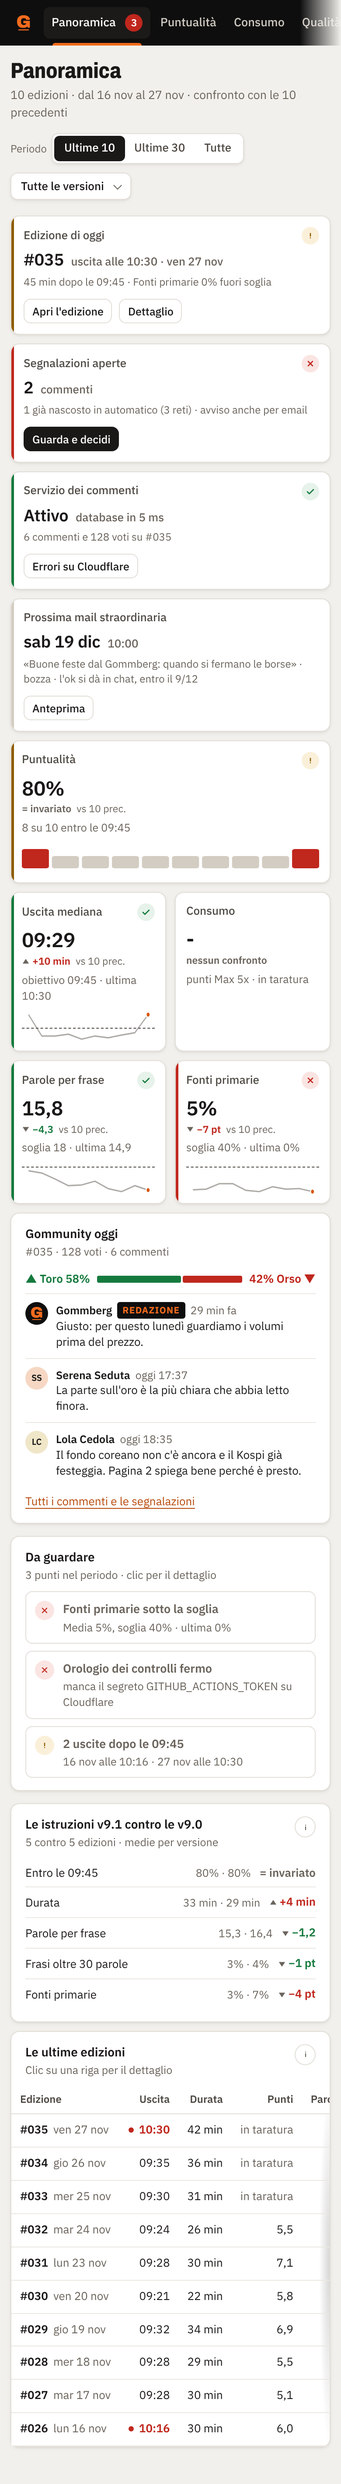
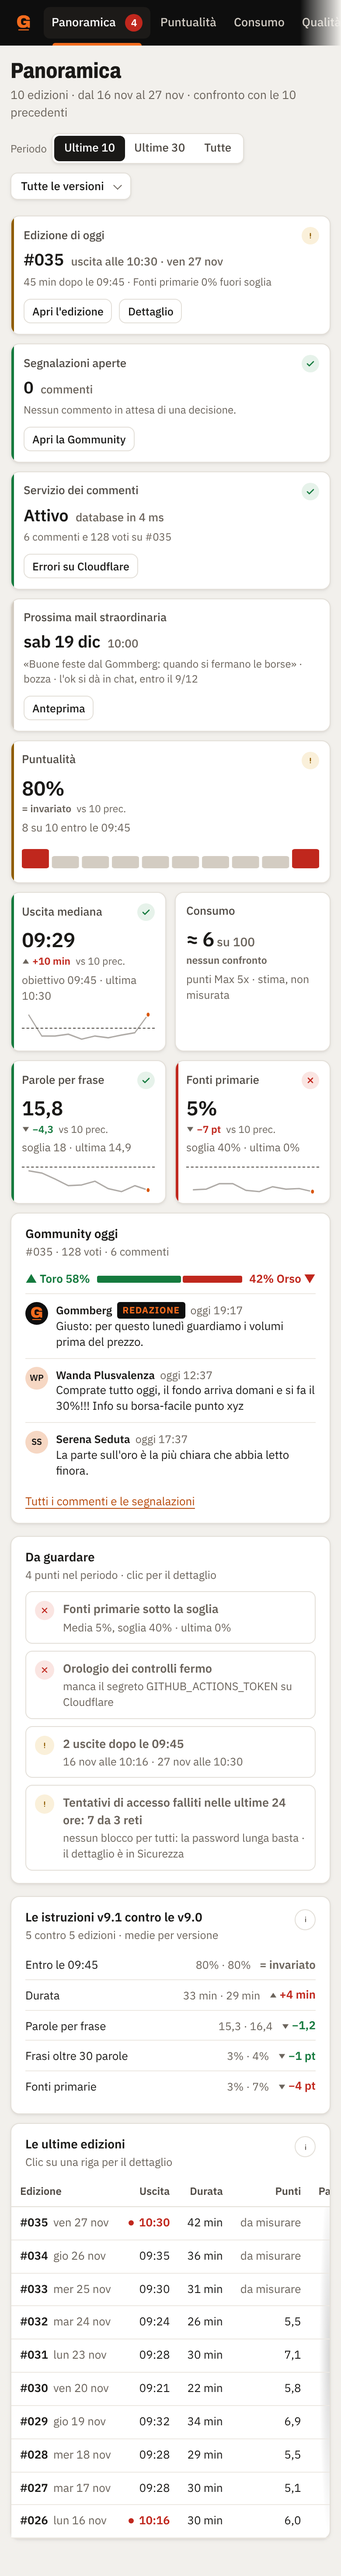
G-51: dal collaudo indipendente - frasi vere sul repository pubblico, recupero, limiti di Cloudflare, anteprime rifatte
- SERIO 3: LETTORI.md e la scheda Sicurezza dicono il vero: sul sito il pannello non si apre senza accesso, ma finché il
  repository GitHub è pubblico i suoi file si leggono lì; per questo G-51 va in linea dopo G-12
- LETTORI.md riscritto per le regole nuove: tentativi senza blocco globale, rete IPv4 o /64, cambio password in due passi,
  durate assolute, CSRF non salvato, recupero con un valore DIVERSO del segreto, accessi a 30 giorni, area solo su
  gommberg.com, misura della CPU dopo il primo deploy (wrangler tail, cpuTime)
- dichiarati, senza costruire: la regola di limitazione delle richieste su /api/* e /redazione (passi per Paolo sul
  pannello di Cloudflare) e le anteprime vecchie su workers.dev (come si verifica e come si tolgono)
- anteprime della costruita rifatte con il Worker vero in locale (Sicurezza con gli errori raggruppati, Panoramica con
  l'avviso dei tentativi, Gommunity con un testo lungo che va a capo)

Claude-Session: https://claude.ai/code/session_01Ri8ehwY1ptc3ZWeANtxGV5

diff --git a/pannello/index.html b/pannello/index.html
@@ -1112,7 +1112,7 @@ function gLettore(){var g=RED.g,c=g.dati&&g.dati.commenti.filter(function(x){ret
     +'<p class="hint" style="margin-top:10px">I suoi nomi (al massimo tre)</p><div class="nomi">'+(L.nomi.length?L.nomi.map(function(n){return "<span>"+esc(n.nome)+"</span>"}).join(""):"<span>nessuno: già liberati</span>")+"</div>"
     +'<div class="acts" style="margin-top:12px">'+(bl?'<button class="btn sm" type="button" data-ga="sblocca" data-id="'+c.id+'">Sblocca il lettore</button>':'<button class="btn sm ko" type="button" data-ga="blocca" data-id="'+c.id+'">Blocca il lettore</button>')
     +(L.nomi.length?'<button class="btn sm" type="button" data-ga="libera-tutti" data-id="'+c.id+'">Libera i nomi</button>':"")+"</div>"
-    +'<p class="hint">'+(bl?"Bloccato: non scrive, non vota, non segnala. ":"")+"Bloccare ferma il browser per sempre e la rete per 30 giorni: i commenti già scritti restano finché non li togli.</p>";
+    +'<p class="hint">'+(bl?"Bloccato: non scrive, non vota, non segnala. ":"")+"Bloccare ferma il browser per sempre e la rete fino a 30 giorni dal commento: i commenti già scritti restano finché non li togli.</p>";
   return card("Chi l'ha scritto","Il commento selezionato",h,{})}
 function gDiscussioni(){var D2=RED.disc;if(!D2)return "";
   var h='<ul class="disc">'+D2.edizioni.slice(0,8).map(function(x){return '<li><b style="font-weight:600">'+num(x.ed)+(ED[x.ed]?" · "+esc(data(ED[x.ed].data)):"")+'</b><button type="button" class="sw'+(x.chiusa?"":" on")+'" data-ga="'+(x.chiusa?"riapri":"chiudi")+'" data-n="'+x.ed+'" aria-pressed="'+!x.chiusa+'" style="background:none;border:0;cursor:pointer;padding:0"><i></i>'+(x.chiusa?"Chiusa":"Aperta")+"</button><em>"+x.commenti+" "+plur(x.commenti,"commento","commenti")+(x.ed==D2.ultima?" · edizione di oggi":"")+(x.chiusa?" · chiusa il "+new Date(x.chiusa).getDate()+"/"+(new Date(x.chiusa).getMonth()+1):"")+"</em></li>"}).join("")+"</ul>";
@@ -1148,7 +1148,7 @@ function sicurezza(){var S2=RED.sic;
     .sort(function(a,b){return a.t<b.t?1:a.t>b.t?-1:0});
   var tr=righe.map(function(x){return x.h}).join("");
   var acc=card("Ultimi accessi","Gli ultimi 30 giorni, anche i tentativi sbagliati",tr?'<div class="tw"><table class="accessi"><thead><tr><th>Quando</th><th>Dispositivo</th><th class="hide-m">Da dove</th><th>Esito</th></tr></thead><tbody>'+tr+"</tbody></table></div>":'<div class="vuoto">Nessun accesso negli ultimi 30 giorni.</div>',{flush:true});
-  var g=S2.regole,prot=card("Protezioni attive","Si leggono, non si toccano",'<ul class="reg">'+["Dopo "+g.errori_liberi+" errori da una rete, un'attesa che raddoppia a ogni errore (fino a "+g.attesa_max_min+" minuti); un tentativo alla volta","Nessun blocco per tutti: con una password di almeno 16 caratteri non serve, e nessuno ti può chiudere fuori","Cookie di sessione che le pagine non possono leggere e che gli altri siti non mandano","Pannello, dati e azioni controllati sul server: senza accesso non si aprono","Password mai nel repository né nelle pagine: "+(S2.password.origine=="area"?"in D1 solo la sua impronta (PBKDF2, "+it(g.iterazioni,0)+" passaggi), cambiata "+quando(S2.password.cambiata):"per ora è il segreto REDAZIONE_PASSWORD su Cloudflare")].map(function(t){return "<li>"+stato("ok")+"<span>"+t+"</span></li>"}).join("")+"</ul>",{});
+  var g=S2.regole,prot=card("Protezioni attive","Si leggono, non si toccano",'<ul class="reg">'+["Dopo "+g.errori_liberi+" errori da una rete, un'attesa che raddoppia a ogni errore (fino a "+g.attesa_max_min+" minuti); un tentativo alla volta","Nessun blocco per tutti: con una password di almeno 16 caratteri non serve, e nessuno ti può chiudere fuori","Cookie di sessione che le pagine non possono leggere e che gli altri siti non mandano","Pannello, dati e azioni controllati sul server: sul sito, senza accesso, non si aprono (finché il repository GitHub è pubblico i file del pannello si leggono lì: G-12)","Password mai nel repository né nelle pagine: "+(S2.password.origine=="area"?"in D1 solo la sua impronta (PBKDF2, "+it(g.iterazioni,0)+" passaggi), cambiata "+quando(S2.password.cambiata):"per ora è il segreto REDAZIONE_PASSWORD su Cloudflare")].map(function(t){return "<li>"+stato("ok")+"<span>"+t+"</span></li>"}).join("")+"</ul>",{});
   var ses=S2.sessioni.map(function(s){return '<span><span class="dev">'+(IDV[s.dispositivo.tipo]||IDV.altro)+"<span>"+esc(s.dispositivo.testo)+"<small>"+(s.questa?"questo dispositivo · ":"")+"usato "+quando(s.usata)+" · "+(s.resta?"resta collegato fino al "+new Date(s.scade).getDate()+"/"+(new Date(s.scade).getMonth()+1)+" senza uso":"fino alla chiusura del browser")+'</small></span></span></span><span><button class="btn sm" type="button" data-sesci="'+s.id+'">Esci</button></span>'}).join("");
   var dev=card("Dispositivi collegati",S2.sessioni.length+" "+plur(S2.sessioni.length,"sessione aperta","sessioni aperte"),'<div class="kv2">'+ses+'</div><div class="acts" style="margin-top:12px"><button class="btn ko" type="button" data-esci-tutti>Esci da tutti i dispositivi</button></div><p class="hint">Chiude ogni sessione sul server, anche questa: poi la password serve di nuovo ovunque. Senza uso, si esce da soli dopo '+g.resta_giorni+" giorni (o dopo "+g.breve_ore+" ore senza «Resta collegato»).</p>",{});
   var pw=card("Cambia la password","Dopo il cambio si esce da tutti gli altri dispositivi",'<form id="fpw" autocomplete="on"><input type="text" name="username" autocomplete="username" value="" hidden>'

diff --git a/redazione/sito/LETTORI.md b/redazione/sito/LETTORI.md
@@ -57,7 +57,7 @@ Il flusso gira solo dal ramo principale. **Alla prima messa in linea va provato 
 
 ## Togliere un commento: la scheda Gommunity
 
-Per l'ordinanza 22999/2026 della Cassazione il gestore risponde se, saputo di un commento diffamatorio, non lo rimuove in fretta: quando arriva l'avviso di una segnalazione, o un'email a redazione@gommberg.com, si guarda e se serve si toglie subito. Dal 5/12 (G-51) si fa dalla scheda Gommunity dell'area riservata (gommberg.com/redazione/, vedi sotto): l'avviso di GitHub porta dritto al commento. Lì: **Togli** (nascosto = 2), **Rimetti** (torna visibile e azzera le segnalazioni, se no alla prossima si nasconderebbe di nuovo), **Azzera** (le segnalazioni di un commento ancora visibile), **Fissa in alto**, **Blocca il lettore** (il codice del browser per sempre, la rete per 30 giorni: non scrive, non vota, non segnala), **Libera il nome**, **Chiudi o riapri la discussione** di un'edizione (i lettori leggono ma non scrivono; la redazione sì). Togli e Rimetti si annullano per 10 secondi. Da collegato, sul sito c'è anche "Togli" sotto ogni commento.
+Per l'ordinanza 22999/2026 della Cassazione il gestore risponde se, saputo di un commento diffamatorio, non lo rimuove in fretta: quando arriva l'avviso di una segnalazione, o un'email a redazione@gommberg.com, si guarda e se serve si toglie subito. Dal 5/12 (G-51) si fa dalla scheda Gommunity dell'area riservata (gommberg.com/redazione/, vedi sotto): l'avviso di GitHub porta dritto al commento. Lì: **Togli** (nascosto = 2), **Rimetti** (torna visibile e azzera le segnalazioni, se no alla prossima si nasconderebbe di nuovo), **Azzera** (le segnalazioni di un commento ancora visibile), **Fissa in alto**, **Blocca il lettore** (il codice del browser per sempre, la rete fino a 30 giorni dal commento: non scrive, non vota, non segnala), **Libera il nome**, **Chiudi o riapri la discussione** di un'edizione (i lettori leggono ma non scrivono; la redazione sì). Togli e Rimetti si annullano per 10 secondi. Da collegato, sul sito c'è anche "Togli" sotto ogni commento.
 
 Solo se l'area non risponde, dalla console di D1 (Cloudflare, Storage e database, D1, `gommberg-lettori`, Console): `UPDATE commenti SET nascosto = 2 WHERE id = <numero>;` per toglierlo; `DELETE FROM segnalazioni WHERE commento = <numero>;` e `UPDATE commenti SET nascosto = 0, segnalazioni = 0 WHERE id = <numero>;` per rimetterlo.
 
@@ -65,19 +65,23 @@ I commenti delle anteprime hanno `sito = 'prova'` e non compaiono mai su gommber
 
 ## L'area riservata della redazione (G-51)
 
-Un solo posto per Paolo: **gommberg.com/redazione/**, non collegato da nessuna pagina. Il codice è `redazione.js` (nel Worker, con `lettori.js`); le pagine sono `pannello/accesso.html` (l'accesso) e `pannello/index.html` (l'area: il pannello di controllo con la striscia di oggi in Panoramica, più le schede Gommunity e Sicurezza). La cartella `pannello/` non è mai tra i file pubblici: `costruisci.py` la mette in `_privato/pannello.js`, che entra nel codice del Worker, e il Worker la serve solo dopo l'accesso. I vecchi indirizzi `/pannello/` e `/consumi/` danno 404.
+Un solo posto per Paolo: **gommberg.com/redazione/**, non collegato da nessuna pagina. Il codice è `redazione.js` (nel Worker, con `lettori.js`; il punto d'ingresso è `servizio.js`); le pagine sono `pannello/accesso.html` (l'accesso) e `pannello/index.html` (l'area: il pannello di controllo con la striscia di oggi in Panoramica, più le schede Gommunity e Sicurezza). La cartella `pannello/` non è tra i file del sito: `costruisci.py` la mette in `_privato/pannello.js`, che entra nel codice del Worker, e il Worker la serve solo dopo l'accesso. **Attenzione: finché il repository GitHub è pubblico, i file di `pannello/` (registro, invii, minuti) si leggono comunque su GitHub**: per questo G-51 va in linea solo dopo G-12 (repository privato). Sul sito, senza accesso, un file del pannello risponde come un file che non esiste (404), e i vecchi indirizzi `/pannello/` e `/consumi/` danno 404. Il resto di `/redazione/` passa ai file statici: lì ci sono anche i file pubblici che il sito legge (`redazione/glossario.json`, `glossario_sito.json`, `meccanismi.json`, `scommessa/pagella.json`); il collaudo controlla che rispondano passando dal Worker (`prova_instradamento.mjs`). L'area risponde solo su gommberg.com: sulle anteprime di workers.dev non c'è (useremmo lo stesso database: "Esci da tutti" o il cambio password varrebbero per il sito vero).
 
 **Le credenziali** le sceglie Paolo e le mette lui, una volta, tra i segreti del Worker: Cloudflare, Workers e Pages, `gommberg`, Impostazioni, Variabili e segreti, Aggiungi, tipo **Segreto**: `REDAZIONE_UTENTE` (il nome utente) e `REDAZIONE_PASSWORD` (almeno 16 caratteri: meglio una frase di quattro o cinque parole). Nessun deploy li cancella e nessuno li rilegge. Senza, la schermata di accesso dice "non ancora configurato". Claude non li vede mai.
 
-**Il cambio password** dalla scheda Sicurezza salva in D1 solo l'impronta della nuova (PBKDF2-SHA256, 50.000 passaggi, sale casuale) e chiude le altre sessioni. **Chi vince**: l'ultima cambiata. L'impronta salvata vale finché il segreto `REDAZIONE_PASSWORD` resta quello di quando è stata salvata; se Paolo cambia il segreto su Cloudflare, vince il segreto, l'impronta si cancella e tutte le sessioni si chiudono. **Password dimenticata**: si cambia il segreto `REDAZIONE_PASSWORD` su Cloudflare (anche dal telefono) e si entra con quello.
+**Il cambio password** dalla scheda Sicurezza salva in D1 solo l'impronta della nuova (PBKDF2-SHA256, 50.000 passaggi, sale casuale) e chiude le altre sessioni. Si fa in due richieste, perché ognuna faccia al massimo una derivazione (il piano gratuito dà 10 ms di CPU per richiesta): la prima controlla la password attuale e la nuova (lunghezza, non soli spazi né un solo carattere ripetuto, diversa dall'attuale) e dà una prova firmata valida 5 minuti; la seconda, con la prova, scrive l'impronta. Impronta, sessioni chiuse e riga degli accessi stanno nello stesso batch di D1: o tutto o niente. **Chi vince**: l'ultima cambiata. L'impronta salvata vale finché il segreto `REDAZIONE_PASSWORD` resta quello di quando è stata salvata; se il segreto cambia, vince il segreto, l'impronta si cancella e con lei tutte le sessioni. **Password dimenticata**: si mette nel segreto `REDAZIONE_PASSWORD` su Cloudflare (anche dal telefono) **un valore diverso da quello di prima** e si entra con quello. Togliere il segreto e rimetterlo uguale non basta: per il codice non è cambiato, e vince ancora la password dell'area.
 
-**Sessioni**: cookie `__Host-gtd_sessione` (HttpOnly, Secure, SameSite=Strict), in D1 solo la sua impronta. "Resta collegato" (acceso di base, da spegnere sui PC condivisi): 90 giorni senza uso; senza, fino alla chiusura del browser e al massimo 12 ore senza uso. Esci chiude la sessione sul server; "Esci da tutti i dispositivi" e l'Esci di ogni dispositivo stanno nella scheda Sicurezza, con gli ultimi accessi (anche quelli sbagliati) degli ultimi 30 giorni. Il cookie `gtd_red=1`, leggibile dalle pagine e senza segreti, serve solo a dire alle pagine del sito che vale la pena chiedere la sessione: così la barra Redazione (`assets/redazione.js`, in ogni pagina) e la firma della redazione nella Gommunity non costano nulla ai lettori.
+**Sessioni**: cookie `__Host-gtd_sessione` (HttpOnly, Secure, SameSite=Strict); in D1 solo la sua impronta, e il gettone anti-CSRF non è salvato: si ricava dal gettone di sessione. "Resta collegato" (acceso di base, da spegnere sui PC condivisi): 90 giorni senza uso e comunque al massimo 90 giorni dall'accesso; senza, fino alla chiusura del browser e al massimo 12 ore dall'accesso. Esci chiude la sessione sul server; "Esci da tutti i dispositivi" e l'Esci di ogni dispositivo stanno nella scheda Sicurezza. Il cookie `gtd_red=1`, leggibile dalle pagine e senza segreti, dice solo alle pagine del sito che vale la pena chiedere la sessione: così la barra Redazione (`assets/redazione.js`, in ogni pagina) e la firma della redazione nella Gommunity non costano nulla ai lettori; con lui il contatore delle visite non parte (le visite di Paolo non si contano). Dove vale la sessione, nessuna pagina carica codice da altri siti: pdf.js sta in `assets/pdfjs/`.
 
-**Tentativi**: per rete, 5 errori in 24 ore liberi, poi un'attesa che raddoppia a ogni errore (1, 2, 4... minuti, al massimo 60); per tutto il sito, oltre 50 errori in 15 minuti l'accesso si sospende finché non scendono (vale anche per Paolo: è il prezzo contro un attacco da molte reti). Nome utente sbagliato e password sbagliata danno la stessa risposta. Ogni azione che cambia qualcosa vuole lo stesso sito d'origine e il gettone anti-CSRF della sessione; le pagine dell'area hanno una CSP con nonce, niente cache e niente cornici.
+**Tentativi**: per rete (l'IPv4 intero, o i primi 64 bit dell'IPv6: `chiaveRete` in `lettori.js`, la stessa dei limiti dei commenti e di "Blocca il lettore"), 5 errori in 24 ore liberi, poi un'attesa che raddoppia a ogni errore (1, 2, 4... minuti, al massimo 60); ogni tentativo si prenota prima di provare la password, così cento richieste insieme dalla stessa rete non ne provano più di una alla volta. **Nessun blocco per tutto il sito**: chiunque lo farebbe scattare da molte reti chiudendo fuori Paolo, e con una password di almeno 16 caratteri non serve. Al suo posto, in Panoramica (Da guardare) e in Sicurezza: "tentativi di accesso falliti nelle ultime 24 ore: N da M reti"; in "Ultimi accessi" gli errori stanno una riga per rete con il conto, e gli accessi riusciti restano sempre visibili. Gli accessi si cancellano dopo 30 giorni (privacy.html). Le impronte di rete già in D1 calcolate su indirizzi IPv6 interi, prima di questa regola, non coincidono più: i limiti guardano al massimo 24 ore indietro e i blocchi di rete scadono da soli entro 30 giorni.
+
+**Il limite delle richieste (scelta di Paolo, da fare sul pannello di Cloudflare)**: la quota gratuita dei Workers è di 100.000 richieste al giorno (si azzera a mezzanotte UTC) e si esaurisce con 1,2 richieste al secondo: chi la consumasse di proposito fermerebbe area e Gommunity fino a mezzanotte UTC (l'edizione esce comunque: i file statici non passano dal Worker). Rimedio gratuito: una regola di limitazione. Cloudflare, gommberg.com, Sicurezza, WAF, Regole di limitazione della frequenza, Crea regola: nome "Worker", espressione `(starts_with(http.request.uri.path, "/api/")) or (starts_with(http.request.uri.path, "/redazione"))`, caratteristica IP, 60 richieste in 10 secondi (il piano gratuito ammette una regola e il periodo di 10 secondi), azione Blocca per 10 secondi. Un lettore vero non arriva a 6 richieste al secondo; Paolo nemmeno.
+
+**Le anteprime vecchie su workers.dev**: le versioni caricate prima di G-51 servono ancora `/pannello/` come file statico, finché restano raggiungibili. Verifica: per ogni ramo di anteprima già pubblicato (`prova`, `anteprima-*`), aprire `https://<ramo>-gommberg.<sottodominio>.workers.dev/pannello/registro.json`: se risponde con i dati, l'anteprima è vecchia. Come si tolgono: ripubblicare quel ramo dopo il rilascio (l'anteprima nuova sostituisce la vecchia con lo stesso nome), oppure da Cloudflare, Workers, gommberg, Impostazioni, Domini e route, spegnere "URL di anteprima" (si riaccendono quando servono).
 
 **La firma "Gommberg"**: i commenti della redazione hanno `redazione = 1` (autore `redazione`, mai un'impronta di lettore) ed escono con il logo e il badge Redazione; il nome è riservato (`RISERVATI`), quindi nessun lettore può firmarsi così, e il badge lo decide solo il servizio. I commenti della redazione si modificano (con "modificato"), non si nascondono con le segnalazioni, e si scrivono anche a discussione chiusa; quelli dei lettori si tolgono, mai si modificano.
 
-**Costi sul piano gratuito**: la derivazione della password (circa 6 ms di CPU, misurati) si fa solo quando c'è un'impronta salvata, una volta per accesso; il cambio password ne fa due (raro: Cloudflare tollera i superamenti occasionali dei 10 ms). Ogni pagina dell'area legge la sessione in D1 e la rinnova al massimo una volta l'ora.
+**CPU**: una derivazione PBKDF2 (circa 6,6 ms misurati in locale) solo per un accesso con l'impronta salvata e per ciascuno dei due passi del cambio password; mai due nella stessa richiesta. Dopo il primo deploy la chat del rilascio misura il tempo vero: `npx wrangler tail gommberg --format json`, poi un accesso dopo un cambio password e un cambio password, e si legge `cpuTime` di quelle richieste (deve restare sotto i 10 ms; se no, si abbassano i passaggi in `AREA.iterazioni`: le impronte salvate portano il loro numero di passaggi e restano valide).
 
 **Primo accesso** (Paolo, dopo il rilascio): 1) i due segreti su Cloudflare; 2) gommberg.com/redazione/ dal PC, "Resta collegato" acceso, e il preferito; 3) dal telefono, stesso indirizzo, poi Condividi, Aggiungi alla schermata Home (l'icona si chiama "Redazione"); 4) Esci e rientro per provare.
 

diff --git a/redazione/ARCHITETTURA.md b/redazione/ARCHITETTURA.md
@@ -58,7 +58,7 @@ Il passaggio in due passi, sicuro in qualunque ordine. **Passo 1** (in linea con
 | Sito | pagine fisse in radice (`index.html`, `archivio.html`...), `assets/`, `pagine.py`, `sito/costruisci.py`, `sito/statico.py`, `robots.txt` | Pagine scritte a mano che si riempiono via JavaScript dai file di dati; pagine per edizione generate. `statico.py` (lo chiama `costruisci.py`, scrive solo nel sito pubblicato, mai nel repository) aggiunge per i motori di ricerca le pagine `impara/<parola>.html`, il contenuto di riserva di home, Impara e Archivio e le pagine di Impara nella sitemap (G-35) |
 | Newsletter | `newsletter.py` (compone anche testata e fascia dei mercati), `newsletter_cornice.html` e `newsletter_modello.html` (copiati a mano in Kit: "Gommberg cornice" per le edizioni, "Gommberg" predefinito; se la cornice manca l'invio fallisce e il controllo del mattino lo segnala, nessun ripiego su un altro modello; se Kit non risponde all'elenco dei modelli, 4 tentativi a 15 secondi e poi errore "Kit non risponde"; la creazione dell'invio non si ritenta mai) | L'email del mattino dalla scheda `e/NNN.json` |
 | Pannello | `pannello.py`, `misure.py`, `gancio_token.py`, `pannello/` | Una riga per edizione: orari, lavoro, qualità, consumo; pagina Invii per le mail straordinarie. Dal 5/12 (G-51) è la prima scheda dell'area riservata: mai tra i file pubblici, vedi sotto |
-| Area riservata (G-51) | `sito/redazione.js` (accesso, sessioni, tentativi, pannello e moderazione nel Worker), `sito/servizio.js` (punto d'ingresso del Worker: esporta solo il gestore), `pannello/index.html` (l'area: Panoramica con la striscia di oggi, pagine del pannello, Gommunity, Sicurezza), `pannello/accesso.html` (la schermata di accesso), `assets/redazione.js` (la barra Redazione sul sito, solo per Paolo collegato), `_privato/pannello.js` (scritto da `costruisci.py` a ogni pubblicazione: i file di `pannello/` dentro il codice del Worker); segreti del Worker `REDAZIONE_UTENTE` e `REDAZIONE_PASSWORD` (li mette Paolo su Cloudflare); regole e procedura in `sito/LETTORI.md` | `gommberg.com/redazione/`: entra solo Paolo; pannello e dati solo dopo l'accesso; firma "Gommberg" con il badge Redazione; toglie, rimette, fissa, blocca, libera nomi, chiude discussioni |
+| Area riservata (G-51) | `sito/redazione.js` (accesso, sessioni, tentativi, pannello e moderazione nel Worker), `sito/servizio.js` (punto d'ingresso del Worker: esporta solo il gestore), `pannello/index.html` (l'area: Panoramica con la striscia di oggi, pagine del pannello, Gommunity, Sicurezza), `pannello/accesso.html` (la schermata di accesso), `assets/redazione.js` (la barra Redazione sul sito, solo per Paolo collegato), `_privato/pannello.js` (scritto da `costruisci.py` a ogni pubblicazione: i file di `pannello/` dentro il codice del Worker), `sito/prova_instradamento.mjs` (i file pubblici sotto `/redazione/` rispondono passando dal Worker), `sito/prova_area_html.mjs` (nessun valore del database senza escape nell'area), `assets/pdfjs/` (pdf.js copiato: niente codice di altri siti dove vale la sessione); segreti del Worker `REDAZIONE_UTENTE` e `REDAZIONE_PASSWORD` (li mette Paolo su Cloudflare); regole e procedura in `sito/LETTORI.md` | `gommberg.com/redazione/`: entra solo Paolo; pannello e dati solo dopo l'accesso; firma "Gommberg" con il badge Redazione; toglie, rimette, fissa, blocca, libera nomi, chiude discussioni |
 | La Gommunity | `sito/lettori.js` (il servizio; con `sito/orologio.js` l'unico codice che gira sul sito), `assets/lettori.js` e `lettori.css` (la sezione), `regole.html`, database D1 `gommberg-lettori`; `sito/segnalazioni.py` con `segnalazioni.yml` (ogni 3 ore tra le 8 e le 23, con l'orologio: avviso a Paolo per ogni commento segnalato); `sito/servi_lettori.mjs` (il sito in locale con il servizio vero); regole e procedura in `sito/LETTORI.md` | Sentiment Toro/Orso, commenti con nomi unici, risposte, like e Segnala accanto all'edizione (G-13) |
 | Mail straordinarie | `dem.py`, `dem/` (un file per mail), `.github/workflows/dem.yml`, `grazie.html` (risposta ai sondaggi) | Il file è la verità, Kit l'esecutore: regole, vista del pannello, allineamento con Kit, segnalazione a Paolo |
 | Orologio dei controlli | `sito/orologio.js` (nel Worker, con il cron di `sito/wrangler.jsonc`), `sito/orologio.py` (lo stato visto da GitHub), `sito/prova_orologio.mjs` (collaudo), `/api/orologio` | Lancia `mattino.yml`, `segnalazioni.yml`, `dem.yml` a orario (vedi 1); dice se è sano |
